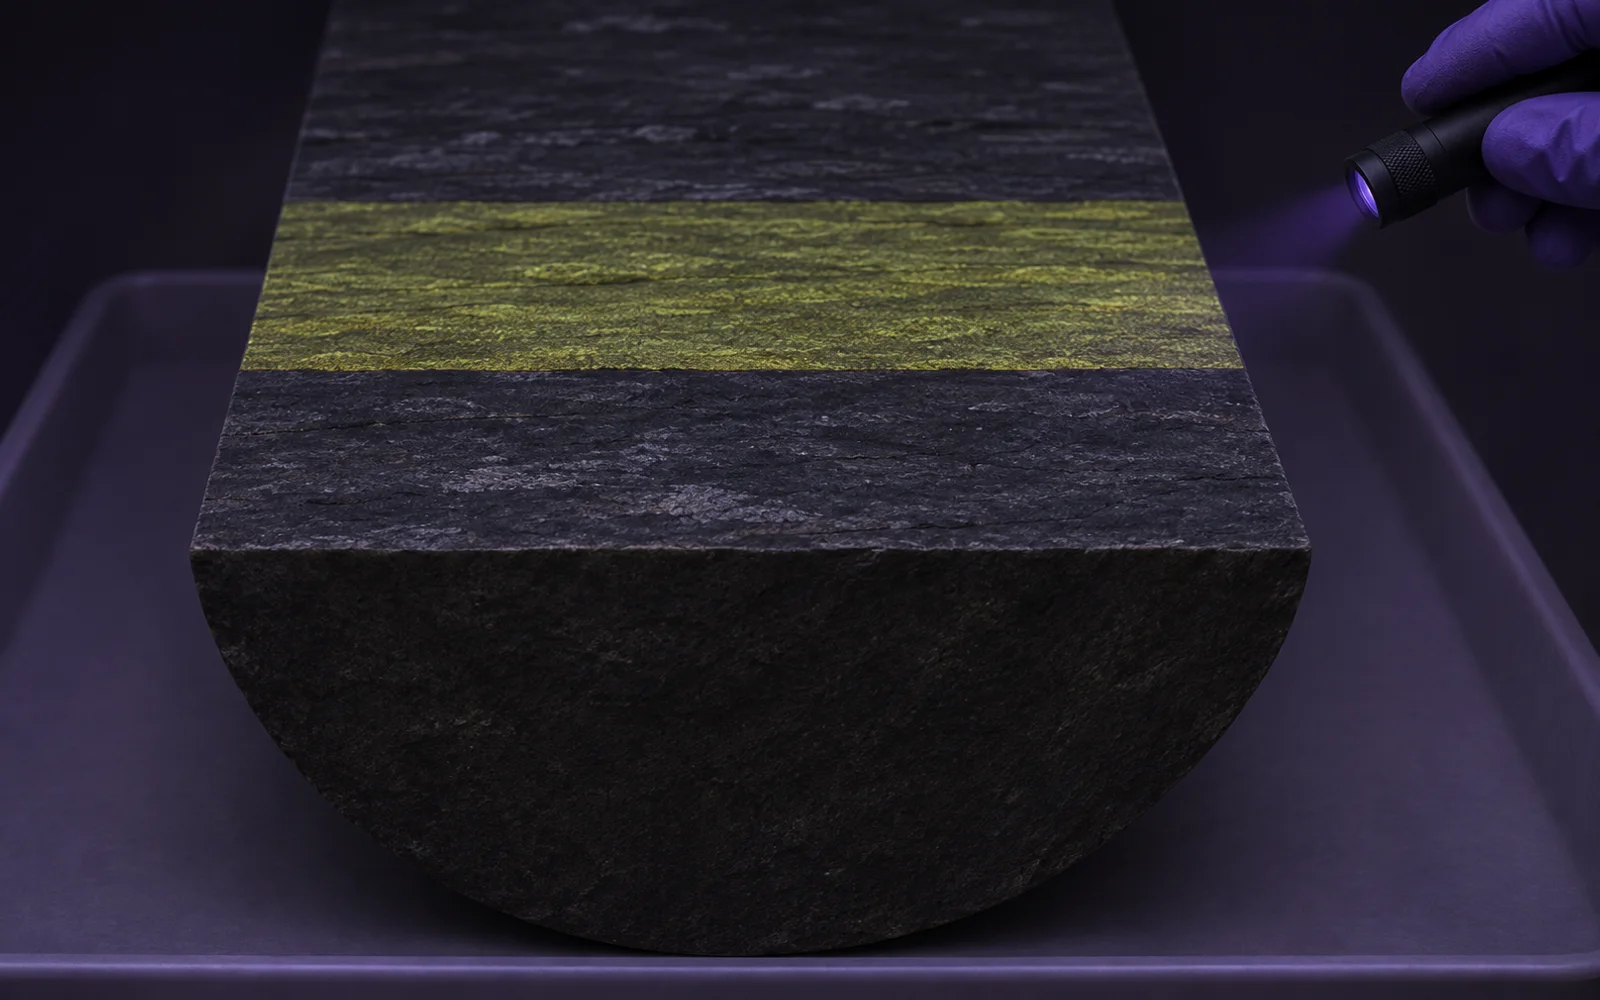
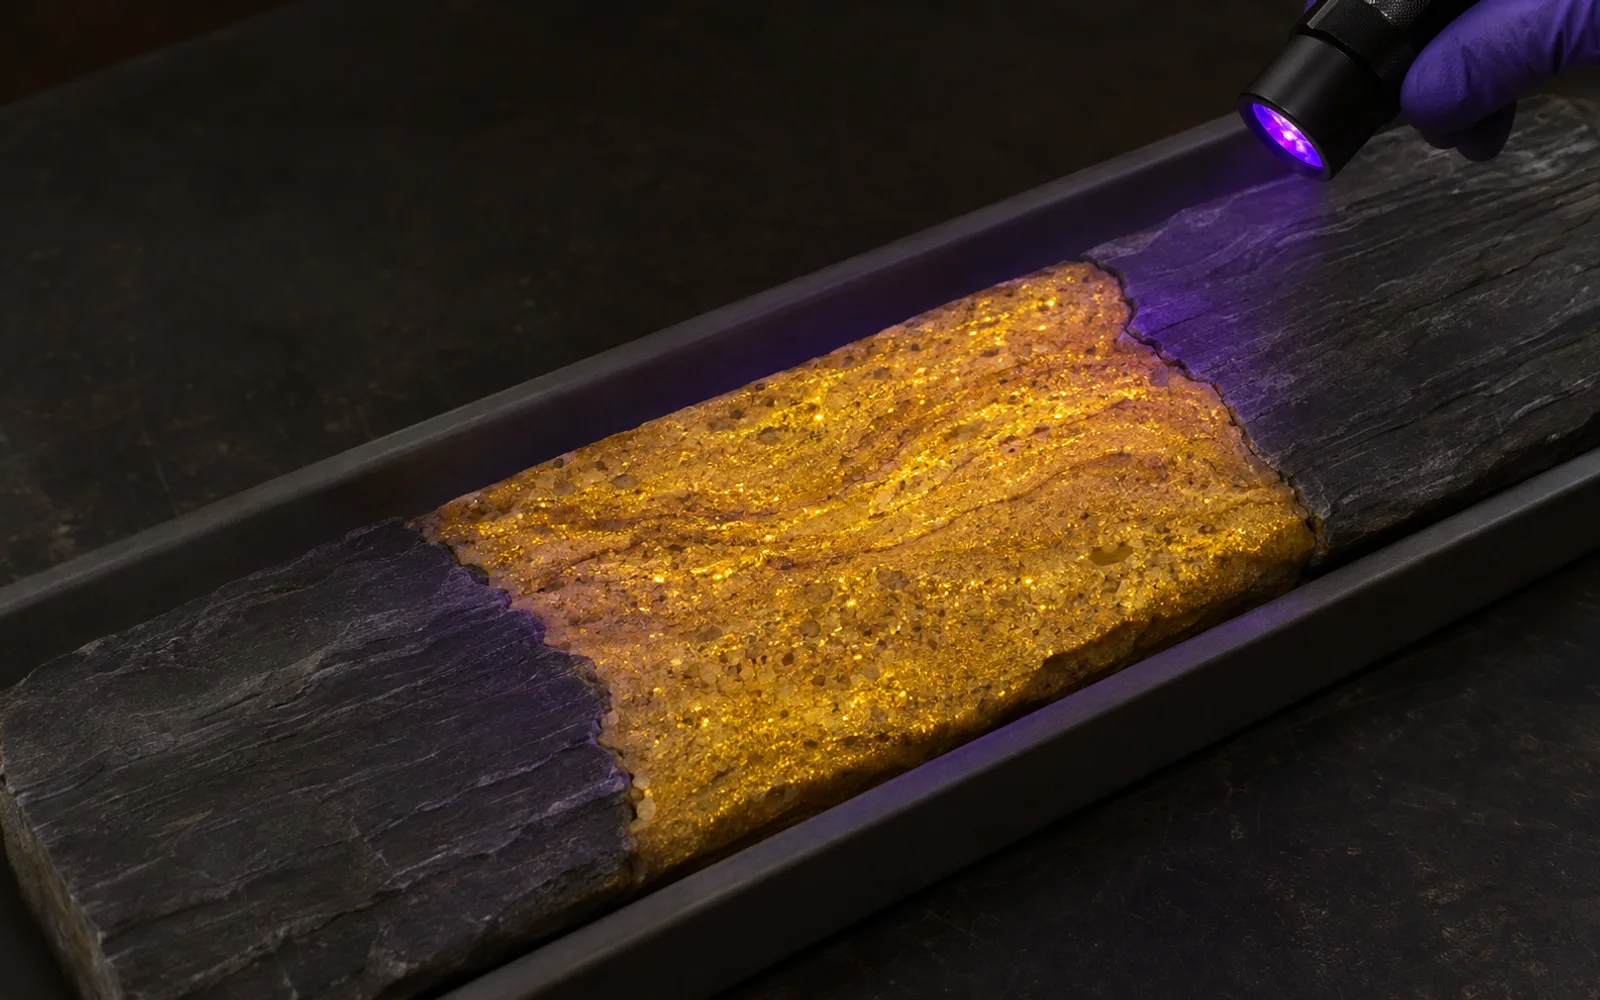
Technology 2.1: revise UV core opening image

diff --git a/public/images/technology/geology/README.md b/public/images/technology/geology/README.md
@@ -141,13 +141,15 @@ Fictional scene, not a real company, place or dataset. No readable text, no numb
 
 ## Role of Geology · ge-role-uv-core
 
+### 이전 생성 이력 · 교체됨
+
 - 생성 날짜: 2026-11-09
 - 생성 도구: Codex 내장 image_gen (내장 도구 모드)
 - 설명: 가상의 장면을 표현한 AI 생성 이미지. 실제 회사·실험실·자료를 재현하지 않습니다.
 - 생성 횟수: 최초 생성 1회, 수정 생성 1회 (반원기둥의 평평한 절단면이 위를 향하도록 수정).
 - 원본 PNG: Codex 생성 이미지 폴더에 보관하며 저장소에는 포함하지 않습니다.
 - 처리: 1586×992 원본 가장자리에서 각 1px씩 잘라 1584×990으로 맞춘 뒤 1600×1000으로 크기 조정. WebP 품질 84.
-- 최종 파일: `ge-role-uv-core.webp` — 1600×1000, WebP 품질 84, 112866 bytes (350KB 이하).
+- 이전 파일 (아래 재생성본으로 교체): `ge-role-uv-core.webp` — 1600×1000, WebP 품질 84, 112866 bytes (350KB 이하).
 - 육안 확인: 전체 이미지와 트레이·램프·사암/셰일 양쪽 경계·코어 앞쪽 단면을 확대 확인했습니다. 평평한 절단면은 위를 향하고 반원형 밑면은 트레이에 놓여 있습니다. 황금빛~황록색 형광은 가운데 사암의 입자와 층리에만 나타나며, 위아래 셰일과 경계는 어둡고 또렷합니다. 트레이와 램프는 글자·숫자·로고처럼 보이는 표식 없이 비어 있으며, 얼굴·워터마크·과장된 네온·형광 번짐은 보이지 않습니다. 밝은 실내의 `ge-wf-core`와 다른 어두운 자외선 장면입니다.
 
 ### 프롬프트 전문 · 최초 생성
@@ -174,3 +176,26 @@ Edit this fictional UV core laboratory photograph. Correct only the rock geometr
 ```
 
 브라우저 확인: 개발 서버의 `/technology/geology/ge-fdp-role` 첫 화면에서 이미지와 지정한 대체 텍스트가 정상 로드되고, “Schematic cross-section”을 펼치면 기존 SVG 단면도가 표시됨을 확인했습니다. 브라우저 콘솔 오류는 없었으며 `npm run lint`와 `npm run build`는 모두 종료 코드 0으로 통과했습니다.
+
+### 대표 이미지 재생성 · 2026-11-09
+
+- 생성 도구: Codex 내장 image_gen (내장 도구 모드).
+- 설명: 가상의 장면을 표현한 AI 생성 이미지. 실제 회사·실험실·자료가 아닙니다.
+- 이번 수정 시도: 새 이미지 생성 1회, 추가 수정 생성 0회. 이전 작업을 포함하면 총 생성 호출 3회 (최초 1회, 방향 수정 1회, 이번 재생성 1회).
+- 교체 이유: 이전 이미지의 흐린 올리브색 띠, 직선 경계, 코어를 향하지 않는 램프와 큰 검은 앞쪽 단면을 개선했습니다.
+- 처리: 1586×992 원본 가장자리에서 각 1px씩 잘라 1584×990으로 맞춘 뒤 1600×1000으로 크기 조정. WebP 품질 84.
+- 현재 최종 파일: `ge-role-uv-core.webp` — 1600×1000, WebP 품질 84, 156710 bytes (350KB 이하).
+- 원본 PNG: Codex 생성 이미지 폴더의 `exec-4f3444cf-99c9-4171-86ea-7d49afdc0085.png`에 보관하며 저장소에 포함하지 않습니다.
+- 육안 검증: 전체 이미지와 램프, 트레이, 양쪽 사암/셰일 접촉부의 확대 크롭을 직접 확인했습니다. 트레이를 비스듬히 내려다보며 세 코어 조각의 넓은 절단면이 화면을 채우고, 검은 끝면은 작게 남습니다. 램프의 렌즈는 왼쪽 아래 코어를 향하며 보라색 조명이 절단면에 닿습니다. 가운데 사암은 입자와 미세 층리를 따라 밝은 황금빛 형광 점들이 나타나고, 양쪽 셰일은 미세한 회색 엽리와 어두운 질감으로 구분됩니다. 접촉부는 약간 굴곡진 불규칙 경계이며 선으로 그은 띠처럼 보이지 않습니다. 트레이·램프에 글자·숫자·라벨·로고 같은 표식이 없고 얼굴·워터마크·네온·빛 번짐도 보이지 않습니다.
+
+#### 프롬프트 전문 · 대표 이미지 새 생성
+
+```text
+Use case: photorealistic-natural. Asset type: representative opening photograph for an oil-and-gas geology education website.
+Generate a fresh 16:10 landscape documentary photograph, 1600x1000 composition. A dark fictional core laboratory. Camera looks down at a three-quarter angle ALONG a long plain shallow tray, from sufficiently high above to see mostly the broad flat sawn cut surfaces, NOT an end-on view. Two or three separate slender longitudinally slabbed half-cylinder rock core pieces lie end to end in the tray, their perfectly planar sawn faces upward and curved undersides resting down. The core pieces and their cut faces fill most of the frame diagonally from lower left toward upper right. The small semicircular end faces are secondary, low in the frame, never a large black foreground wall. Leave the upper-left corner free of critical subjects.
+Show actual contrasting lithologies along the sequence: fine-grained, dark charcoal grey laminated shale, then a substantial oil-bearing porous sandstone interval, then dark laminated shale again. The sandstone has distinct visible coarse sand grains and fine irregular bedding; both lithological contacts are natural, gently wavy and slightly jagged erosional contacts, distinct but NOT straight ruled lines and NOT colored paint edges. The sandstone cut surface emits clearly luminous WARM GOLDEN-YELLOW fluorescence, brighter than everything else in the frame, with many tiny bright golden fluorescent grains and pores sparkling at the grain scale, intensity gently varying with fine bedding. Photographically exposed fluorescent sandstone retains detailed granular texture, looks lit from within the grain structure, never flat dull olive green, never moss or a painted stripe. No green coating.
+At the upper/right frame edge, a realistically gloved hand holds one small plain unbranded black handheld UV flashlight. The flashlight's lens faces down and left, its optical axis aimed directly into the middle sandstone interval. Show the visible violet light source and its faint violet wash falling ON THE CUT FACES around the golden sandstone, demonstrating clearly that this lamp illuminates this rock. A narrow subtle violet illumination footprint, not theatrical laser rays or a fog beam. Shale stays grey-black and nonfluorescent despite this violet illumination; it is visibly laminated and much darker than the sandstone. The tray is plain unmarked charcoal grey.
+Natural documentary photography, believable rock proportions, dark lab background, shallow depth of field but both sandstone/shale contacts readable. Strong yet restrained luminous golden grain-scale fluorescence is the focal point, fine photographic detail, no neon color, no bloom, no halo, no gold glow spilling onto shale or tray. Fictional scene, not real company, laboratory or dataset. No text, letters, numbers, text-like marks, depth marks, labels, logos, watermark, borders or faces anywhere, especially tray and lamp.
+```
+
+이번 재생성본 검증: `npm run lint`와 `npm run build` 모두 종료 코드 0으로 통과했습니다. 컴포넌트의 src/alt와 문구·캡션·SVG·레이아웃·CSS는 수정하지 않았습니다.
